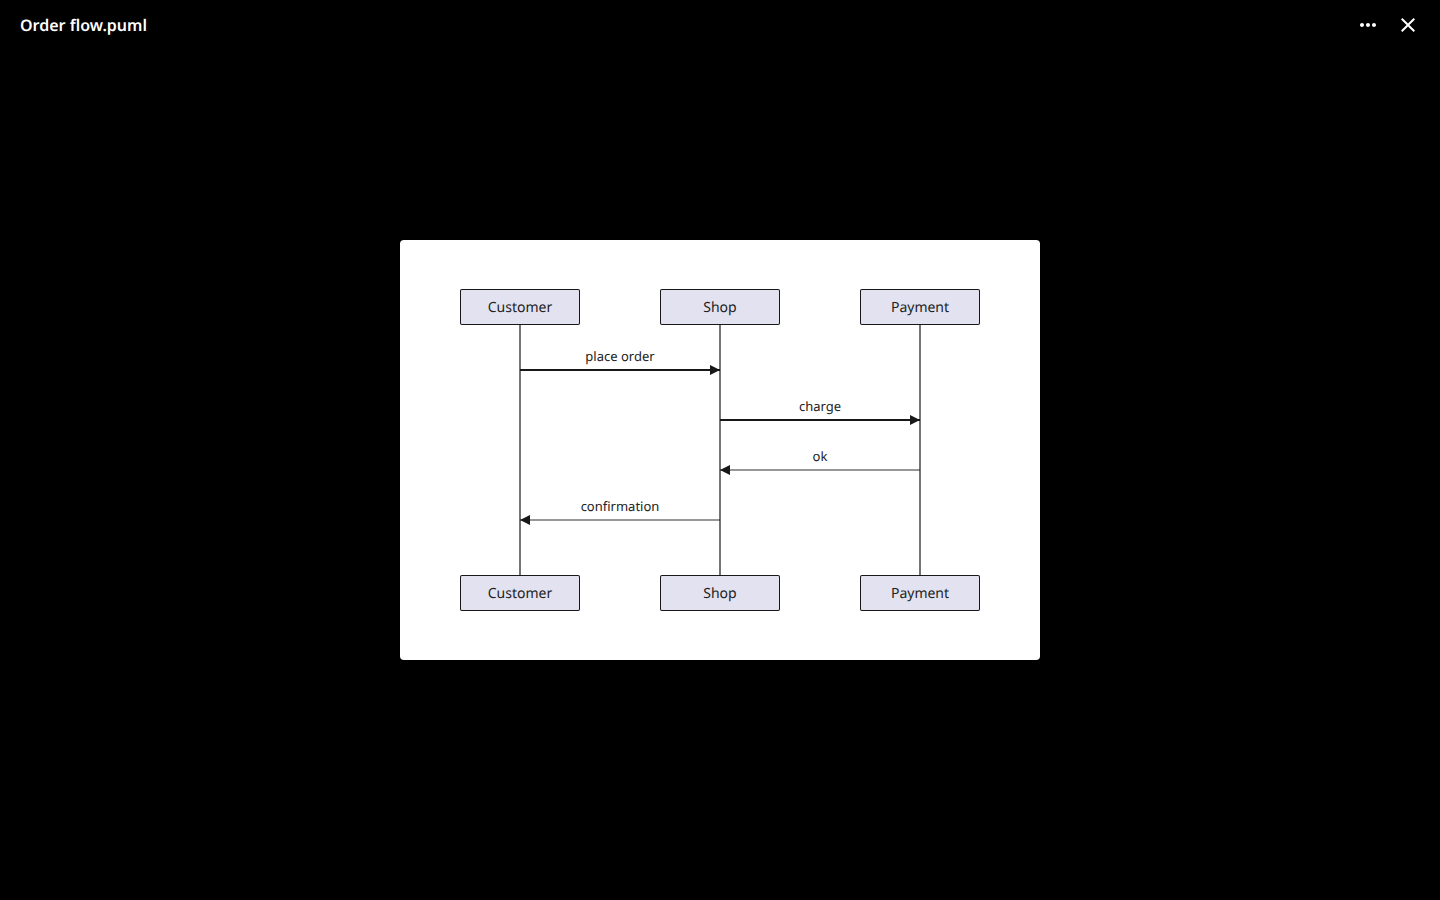
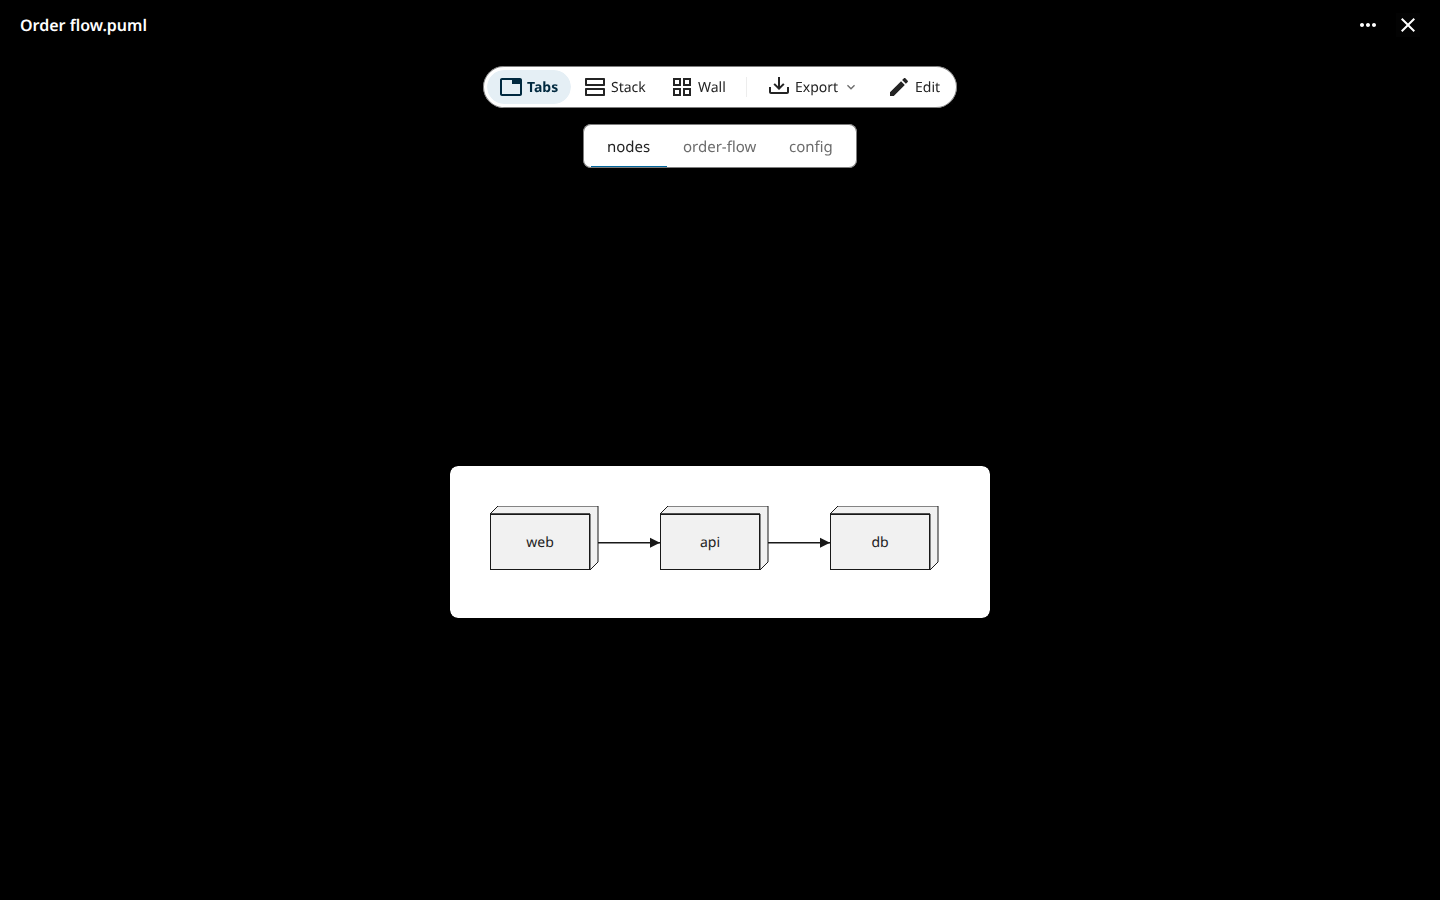
Docs: the Viewer boards

Changed region(s): [[0.25, 0.2489, 0.75, 0.7467], [0.3125, 0.0622, 0.6875, 0.1867]]

diff --git a/docs/design/README.md b/docs/design/README.md
@@ -1,6 +1,6 @@
 # Design boards
 
-Exported from the Penpot file "NXT PlantUML" on 2026-10-13, updated 2026-10-16, one PNG per
+Exported from the Penpot file "NXT PlantUML" on 2026-10-13, updated 2026-10-17, one PNG per
 board. The spec's "The design" section says what each board shows and what the prototype links do.
 
 | Page | Board | File |
@@ -32,7 +32,18 @@ board. The spec's "The design" section says what each board shows and what the p
 | Style guide | the editor's parts: swatch, pencil, stepper, lint marks, tabs, folding | [style-guide-editor-parts.png](style-guide-editor-parts.png) |
 | Style guide | the doc card: anatomy, hover and pinned, its timing and keys | [style-guide-doc-card.png](style-guide-doc-card.png) |
 | Files | the Diagrams folder | [files.png](files.png) |
-| Files | the Viewer on a diagram | [viewer.png](viewer.png) |
+| Files | the Viewer on a diagram: Tabs on `nodes` | [viewer.png](viewer.png) |
+| Files | Tabs on `order-flow` | [viewer-order-flow.png](viewer-order-flow.png) |
+| Files | Tabs on `config` | [viewer-config.png](viewer-config.png) |
+| Files | Stack: three cards, none checked, Export all | [viewer-stack.png](viewer-stack.png) |
+| Files | Wall: two cards checked, Export 2 | [viewer-wall.png](viewer-wall.png) |
+| Files | a file of one diagram: no switch, no tabs | [viewer-single.png](viewer-single.png) |
+| Files | the Export menu for `nodes` | [export-menu-nodes.png](export-menu-nodes.png) |
+| Files | the Export menu for `order-flow` | [export-menu-order-flow.png](export-menu-order-flow.png) |
+| Files | the Export menu for `config` | [export-menu-config.png](export-menu-config.png) |
+| Files | the Export menu for all three diagrams, as .zip | [export-menu-all.png](export-menu-all.png) |
+| Files | the Export menu for two checked, as .zip | [export-menu-checked.png](export-menu-checked.png) |
+| Files | the Export menu for the one-diagram file | [export-menu-single.png](export-menu-single.png) |
 | Files | the + New menu, with New puml File | [new-menu.png](new-menu.png) |
 | Files | the context menu on a .puml | [context-menu.png](context-menu.png) |
 | Readme | the README rendered above the list | [readme.png](readme.png) |
